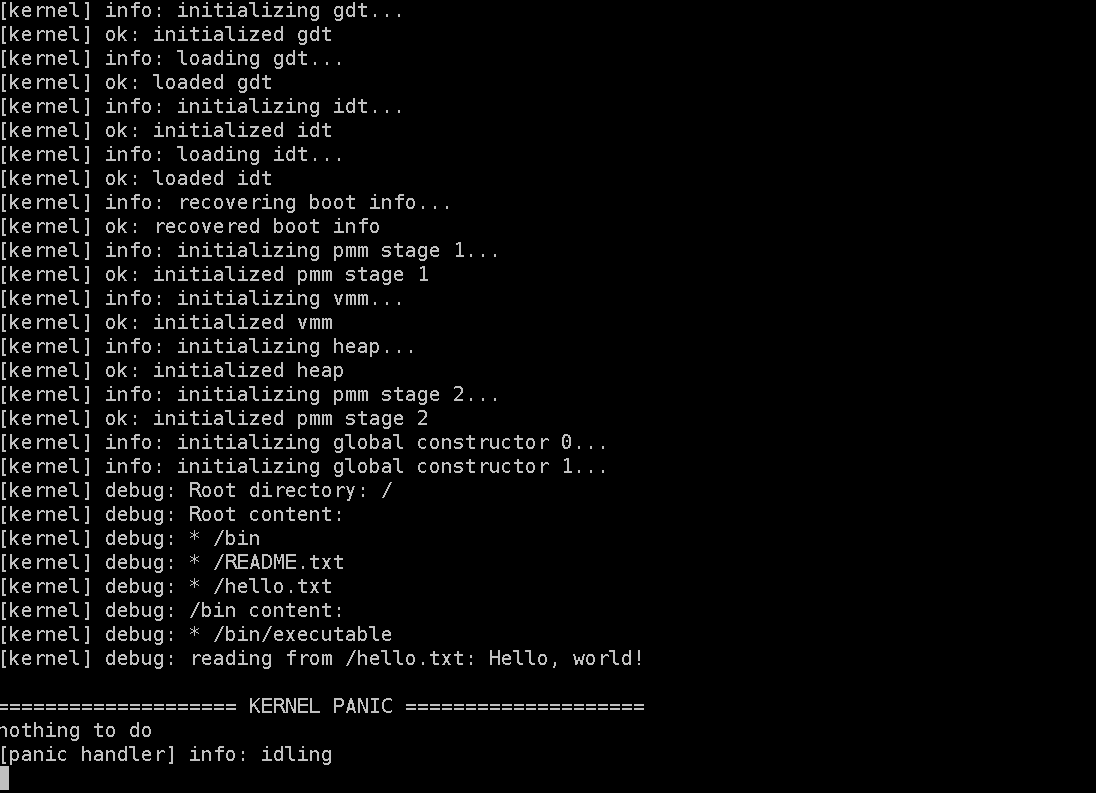
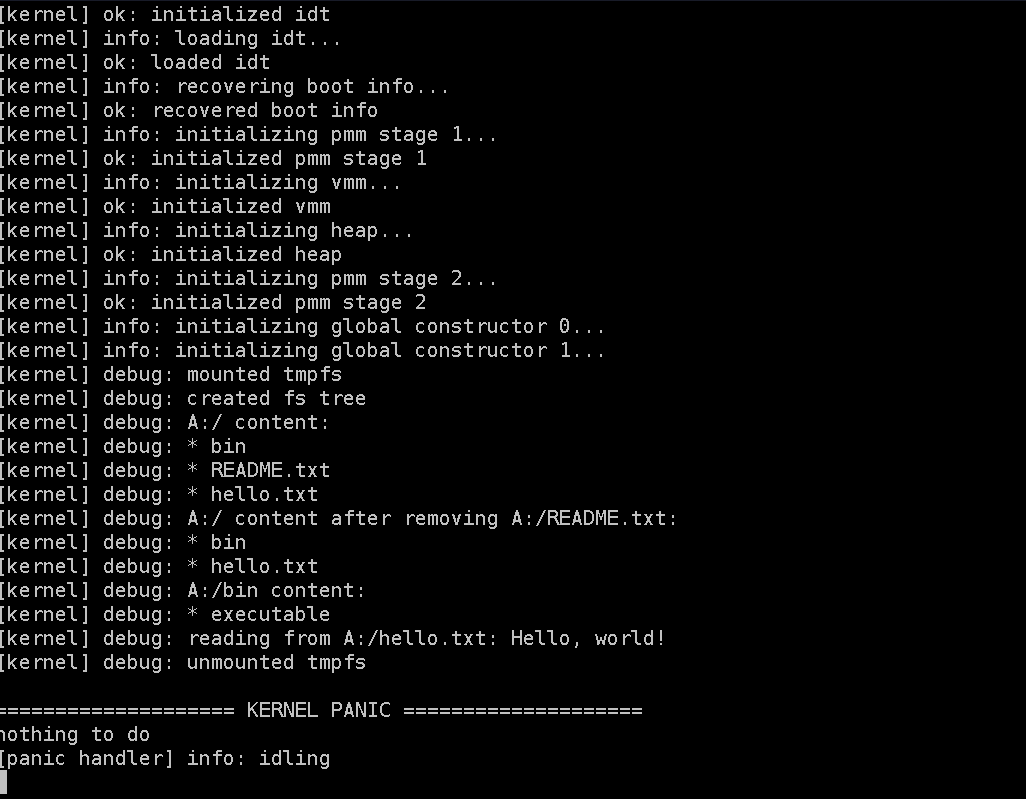
VFS is done for now

diff --git a/kernel/fs/tmpfs.cpp b/kernel/fs/tmpfs.cpp
@@ -47,17 +47,19 @@ Node *root = nullptr;
 int remove_node(Node *node)
 {
         if (!node)
-                return -1;
+                return -1;      // node is null
 
         if (node->dir_data) {
                 for (usize i = 0; i < node->dir_data->nodes.size(); i++)
                         remove_node(node->dir_data->nodes[i]);
+
                 delete node->dir_data;
         }
 
         if (node->file_data) {
                 if (node->file_data->data)
                         delete[] node->file_data->data;
+
                 delete node->file_data;
         }
 
@@ -106,7 +108,24 @@ int create_dir(void *fs_data, const lib::String &name)
 
 int remove(void *fs_data)
 {
-        return remove_node(static_cast<Node *>(fs_data));
+        Node *nd = static_cast<Node *>(fs_data);
+        if (!nd)
+                return -1;              // node is null
+
+        // detach the node before removing it so that the parent directory
+        // does not contain a pointer to the freed memory
+        if (nd->parent && nd->parent->dir_data) {
+                Vector<Node *> &siblings = nd->parent->dir_data->nodes;
+
+                for (usize i = 0; i < siblings.size(); i++) {
+                        if (siblings[i] == nd) {
+                                siblings.erase(i);
+                                break;
+                        }
+                }
+        }
+
+        return remove_node(nd);
 }
 
 int write_file(void *fs_data, const char *buf)

diff --git a/kernel/main.cpp b/kernel/main.cpp
@@ -1,3 +1,4 @@
+#include "lib/vector.hpp"
 #include <boot/bootinfo.hpp>
 #include <boot/limine.hpp>
 #include <cpu/gdt.hpp>
@@ -79,11 +80,13 @@ extern "C" void kernel_main()
         }
 
         vfs::mount('A', new tmpfs::TMPFS());
+        logger.debug("mounted tmpfs");
 
         vfs::create_dir("A:/bin");
         vfs::create_file("A:/README.txt");
         vfs::create_file("A:/hello.txt");
         vfs::create_file("A:/bin/executable");
+        logger.debug("created fs tree");
 
         logger.debug("A:/ content:");
         
@@ -92,6 +95,13 @@ extern "C" void kernel_main()
 
         vfs::readdir("A:/", root);
         for (auto &nd : root)
+                logger.debug("* %s", nd.name.raw());
+
+        vfs::remove("A:/README.txt");
+        kernel::lib::Vector<vfs::DirEntry> root2;
+        logger.debug("A:/ content after removing A:/README.txt:");
+        vfs::readdir("A:/", root2);
+        for (auto &nd : root2)
                 logger.debug("* %s", nd.name.raw());
 
         vfs::readdir("A:/bin", bin);
@@ -105,6 +115,7 @@ extern "C" void kernel_main()
         logger.debug("reading from A:/hello.txt: %s", buf);
 
         vfs::unmount('A');
+        logger.debug("unmounted tmpfs");
 
         panic("nothing to do");
 }

diff --git a/kernel/fs/vfs.hpp b/kernel/fs/vfs.hpp
@@ -27,19 +27,25 @@ struct VNodeOps {
         void *(*lookup)(void *fs_data, const lib::String &name);
 };
 
-// Virtual node
+// Virtual node, which represents an entry in the VFS tree.
+// "Real" nodes are the nodes from the "real" filesystems.
 struct VNode {
         VNodeOps *ops;
-        void *fs_data;          // filesystem specific node
+        // maybe should I change this field to `real_node` or something
+        // like this?
+        void *fs_data;          // node from the "real" filesystem
 };
 
-// Representation of a directory entry
+// Representation of a directory entry.
+// Used in readdir().
 struct DirEntry {
         lib::String name;
         bool is_dir;
 };
 
-// One per drive
+// One per drive.
+// Used to execute an operation on the whole filesystem and not
+// on a single node.
 struct FileSystem {
         virtual ~FileSystem()           = default;
 
@@ -47,6 +53,7 @@ struct FileSystem {
         virtual void unmount()          = 0;
 };
 
+// Each drive has one filesystem
 struct Drive {
         char id;
         FileSystem *fs;

diff --git a/kernel/fs/vfs.cpp b/kernel/fs/vfs.cpp
@@ -180,6 +180,15 @@ int create_dir(const lib::String &path)
         return ret;
 }
 
+int remove(const lib::String &path)
+{
+        VNode *vnd = lookup(path);
+        if (!vnd)
+                return -1;      // file/dir not found
+
+        return vnd->ops->remove(vnd->fs_data);
+}
+
 int write_file(const String &path, const char *buf)
 {
         VNode *vnd = lookup(path);

diff --git a/README.md b/README.md
@@ -6,13 +6,14 @@ I do it for learning.
 
 ## Features
 - Serial output
-- tmpfs
+- VFS
+- TMPFS
 - Heap allocator
 - 4-level paging
 
 ## Roadmap (to the next release)
 * [x] Better tmpfs
-* [ ] VFS
+* [x] VFS
 * [ ] USTAR
 * [ ] Framebuffer driver
 * [ ] initrd
